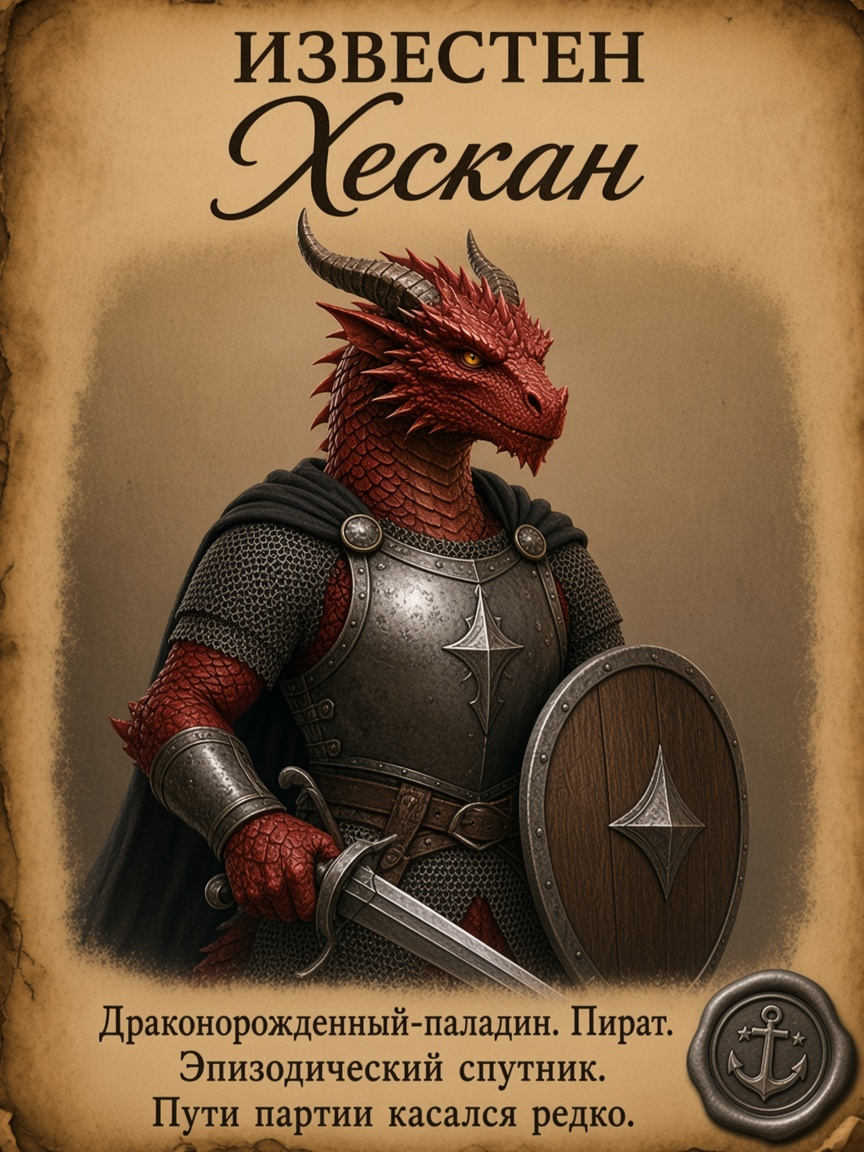
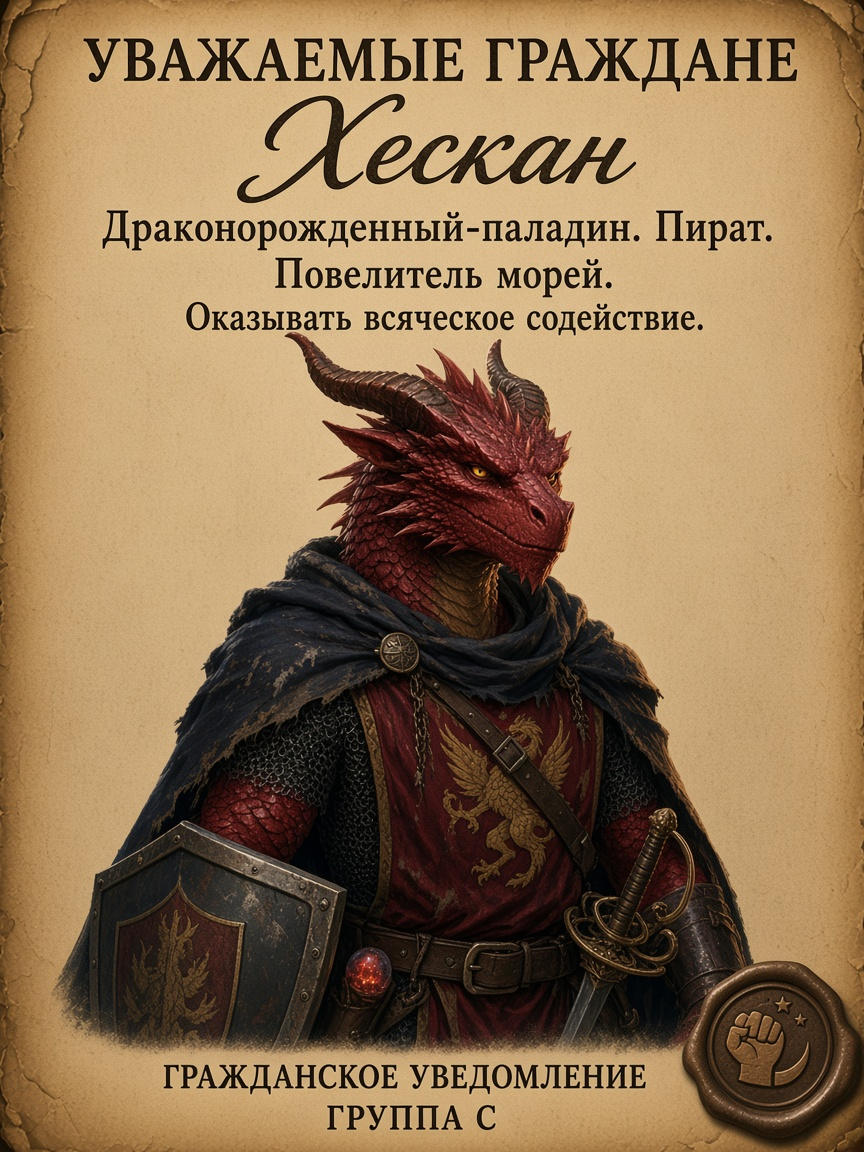
Apply master survey texts and regenerate poster groups.
Personalize Heroes footers (Silver Guard title), switch Wanted
headers to ОСОБО ОПАСЕН with rewards, unify Group C notices
under УВАЖАЕМЫЕ ГРАЖДАНЕ; Virra gets blue seal and three lines.

diff --git a/assets/prompts/parchment-posters.md b/assets/prompts/parchment-posters.md
@@ -14,15 +14,15 @@ source: gm
 
 ## Визуальный канон серии
 
-Опрос текстов: [`poster-text-survey.md`](poster-text-survey.md)
+Опрос текстов: [`poster-text-survey.md`](poster-text-survey.md) · ответы: [`poster-text-answers-2026-09-29.md`](poster-text-answers-2026-09-29.md)
 
 ### 4 шаблона (группировка — убрать разнобой)
 
 | | Группа | Заголовок | Сургуч | Файлы |
 |---|---|---|---|---|
 | **A** | Герои | `ГЕРОИ АЭЛЕНДОРА` | синий · полумесяц | `01`–`07` |
-| **B** | Розыск | `РОЗЫСК` (+ подзаголовок) | красный · печать Аэлендора | `00`, `08`, `10`, `12`, `15` |
-| **C** | Объявление | статус одним словом | бронза/серый · одно место | `09`, `13`, `14`, `16`, `17` |
+| **B** | Особо опасен | `ОСОБО ОПАСЕН` | красный · печать Аэлендора | `00`, `08`, `10`, `12` (+ `15` Зеварду без правок) |
+| **C** | Объявление | `УВАЖАЕМЫЕ ГРАЖДАНЕ` | бронза/серый · одно место | `09`, `13`, `14`, `16`, `17` |
 | **D** | Память | `ДОБРАЯ ПАМЯТЬ` | тёплый тёмный | `11` |
 
 Внутри группы: один пергамент, одни поля, одна иерархия шрифтов (**эталон — Вирра**), сургуч в одном углу.
@@ -35,27 +35,42 @@ source: gm
 
 ## Афиши
 
-### 0. Розыск — Кардиан
+### 0. Особо опасен — Кардиан
+
+Текст (опрос 2026-09-29):
+
+- ОСОБО ОПАСЕН / Кардиан
+- Некромант Мёртвого города.
+- Награда — Внесение имени в зал славы.
+- 1 000 000 золотых драконов.
 
 ![розыск Кардиан](../images/parchment-posters/00-wanted-kardian.png)
+
 
 ### 1. Герои — Грок
 
 Референс: [`../images/portraits/grok.png`](../images/portraits/grok.png)
 
-Текст:
+Текст (опрос 2026-09-29):
 
 - ГЕРОИ АЭЛЕНДОРА / Грок
 - Паладин Смотрителей.
-- За доблесть у Лунного Оврага.
-- Титул дарован Серебряным Стражем.
+- За убийство Громаша.
+- Титул дарован за битву у Серебряного стража.
 
 ![Грок](../images/parchment-posters/01-heroes-grok.png)
 
 ### 2. Герои — Вирра
 
 Референс: [`../images/portraits/virra.png`](../images/portraits/virra.png)  
-Фиолетовый мех. Мастер доводит афишу сам.
+Фиолетовый мех. Синий сургуч + 3 строки (опрос 2026-09-29).
+
+Текст:
+
+- ГЕРОИ АЭЛЕНДОРА / Вирра
+- Жрица кузни Гонда.
+- За спасение души.
+- Титул дарован за битву у Серебряного стража.
 
 ![Вирра](../images/parchment-posters/02-heroes-virra.png)
 
@@ -64,12 +79,12 @@ source: gm
 Референс: [`../images/portraits/baltan.png`](../images/portraits/baltan.png)  
 Серо-белый харенгон-бард, пурпурный плащ с зелёной подкладкой, лютня с виноградом.
 
-Текст:
+Текст (опрос 2026-09-29):
 
 - ГЕРОИ АЭЛЕНДОРА / Балтан
 - Бард Коллегии созидания.
-- За доблесть у Лунного Оврага.
-- Титул дарован Серебряным Стражем.
+- За песню победы.
+- Титул дарован за битву у Серебряного стража.
 
 ![Балтан](../images/parchment-posters/03-heroes-baltan.png)
 
@@ -78,12 +93,12 @@ source: gm
 Референс: [`../images/portraits/drannik.png`](../images/portraits/drannik.png)  
 Харенгон-друид Круга мутации: рога, зелёные глаза, посох с зелёной магией.
 
-Текст:
+Текст (опрос 2026-09-29):
 
 - ГЕРОИ АЭЛЕНДОРА / Дранник
 - Друид Круга мутации.
-- За доблесть у Лунного Оврага.
-- Титул дарован Серебряным Стражем.
+- За призыв природы.
+- Титул дарован за битву у Серебряного стража.
 
 ![Дранник](../images/parchment-posters/04-heroes-drannik.png)
 
@@ -92,12 +107,12 @@ source: gm
 Референс: [`../images/portraits/kavil.png`](../images/portraits/kavil.png)  
 Человек, друид Круга дикого огня: красный плащ, мех на плечах, пламя в ладони.
 
-Текст:
+Текст (опрос 2026-09-29):
 
-- ГЕРОИ АЭЛЕНДОРА / Кавил
+- ГЕРОИ АЭЛЕНДОРА / Кавил МакАндрик
 - Друид Круга дикого огня.
-- За доблесть у Лунного Оврага.
-- Титул дарован Серебряным Стражем.
+- За огонь в сердце.
+- Титул дарован за битву у Серебряного стража.
 
 ![Кавил](../images/parchment-posters/05-heroes-kavil.png)
 
@@ -106,12 +121,12 @@ source: gm
 Референс: [`../images/portraits/elarion.png`](../images/portraits/elarion.png)  
 Астральный эльф, чародей драконьей крови: серебряные волосы, фиолетовые глаза, синяя магия в ладони.
 
-Текст:
+Текст (опрос 2026-09-29):
 
 - ГЕРОИ АЭЛЕНДОРА / Эларион
 - Чародей драконьей крови.
-- За доблесть у Лунного Оврага.
-- Титул дарован Серебряным Стражем.
+- За успешную подготовку.
+- Титул дарован за битву у Серебряного стража.
 
 ![Эларион](../images/parchment-posters/06-heroes-elarion.png)
 
@@ -120,12 +135,12 @@ source: gm
 Референс: [`../images/portraits/plach-zvezdy.png`](../images/portraits/plach-zvezdy.png)  
 Табакси, мистический ловкач: чёрный мех, голубые светящиеся глаза, капюшон.
 
-Текст:
+Текст (опрос 2026-09-29):
 
 - ГЕРОИ АЭЛЕНДОРА / Плач звезды
 - Мистический ловкач.
-- За доблесть у Лунного Оврага.
-- Титул дарован Серебряным Стражем.
+- За повелевание тенями.
+- Титул дарован за битву у Серебряного стража.
 
 ![Плач звезды](../images/parchment-posters/07-heroes-plach-zvezdy.png)
 
@@ -134,12 +149,12 @@ source: gm
 Референс: [`../images/portraits/innokentiy-bal.png`](../images/portraits/innokentiy-bal.png)  
 **Не** герой Аэлендора. Вампир, бьётся руками.
 
-Текст:
+Текст (опрос 2026-09-29):
 
-- РОЗЫСК / ОСОБО ОПАСЕН / Иннокентий Баль
-- Также известен как Кеша.
-- Вампир. Бьётся голыми руками.
-- Не доверять. Не приближаться.
+- ОСОБО ОПАСЕН / Иннокентий Баль
+- Вампир Кеша.
+- Награда — Титул Герой Аэлендора.
+- 10 000 золотых драконов.
 
 ![розыск Кеша](../images/parchment-posters/08-wanted-innokentiy-bal.png)
 
@@ -148,12 +163,12 @@ source: gm
 Референс: [`../images/portraits/nevil.png`](../images/portraits/nevil.png)  
 **Не** герой Аэлендора. Положительная гражданская пометка.
 
-Текст:
+Текст (опрос 2026-09-29):
 
-- РЕКОМЕНДАЦИЯ / Невил
+- УВАЖАЕМЫЕ ГРАЖДАНЕ / Невил
 - Городской охотник. Убийца монстров.
 - Достоин доверия путников и стражи.
-- Временно в пути — свадебное путешествие.
+- Оказывать всяческое содействие.
 
 ![рекомендация Невил](../images/parchment-posters/09-notice-nevil.png)
 
@@ -162,12 +177,12 @@ source: gm
 Референс: [`../images/portraits/bagal.png`](../images/portraits/bagal.png)  
 Бывший ПК игрока Элариона. **Не** герой Аэлендора. Убит Кешей.
 
-Текст:
+Текст (опрос 2026-09-29):
 
-- РОЗЫСК / Багал
+- ОСОБО ОПАСЕН / Багал
 - Аасимар-колдун. Пакт исчадия.
-- Скрытый антагонист.
-- Убит Кешей.
+- Награда — Титул Герой Аэлендора.
+- 10 000 золотых драконов.
 
 ![розыск Багал](../images/parchment-posters/10-wanted-bagal.png)
 
@@ -190,12 +205,12 @@ source: gm
 Референс: [`../images/portraits/tiara.png`](../images/portraits/tiara.png)  
 Ипостась Балтана. **Переметнулась на сторону демонов.** Не герой Аэлендора.
 
-Текст:
+Текст (опрос 2026-09-29):
 
-- РОЗЫСК / ПРЕДАТЕЛЬНИЦА / Тиара
+- ОСОБО ОПАСЕН / Тиара
 - Колдун. Пакт исчадия.
-- Переметнулась на сторону демонов.
-- Ипостась Балтана. Пала у Лунного Оврага.
+- Награда — Доступ в Средний город Лунного моста.
+- 1 000 золотых драконов.
 
 ![розыск Тиара](../images/parchment-posters/12-wanted-tiara.png)
 
@@ -204,12 +219,12 @@ source: gm
 Референс: [`../images/portraits/radonaar.png`](../images/portraits/radonaar.png)  
 Выгнан из партии. Служит Империи Драконьего Хребта. Не герой Аэлендора.
 
-Текст:
+Текст (опрос 2026-09-29):
 
-- СЛУЖИТ ХРЕБТУ / Радонаар
+- УВАЖАЕМЫЕ ГРАЖДАНЕ / Радонаар
 - Драконорожденный-жрец. Домен войны.
 - Авангард Империи Драконьего Хребта.
-- Вне партии. Пути ещё пересекутся.
+- Оказывать всяческое содействие.
 
 ![Радонаар](../images/parchment-posters/13-notice-radonaar.png)
 
@@ -218,12 +233,12 @@ source: gm
 Референс: [`../images/portraits/uorag.png`](../images/portraits/uorag.png)  
 Эпизодический. Нейтральное упоминание. Не герой Аэлендора.
 
-Текст:
+Текст (опрос 2026-09-29):
 
-- ИЗВЕСТЕН / Уораг
+- УВАЖАЕМЫЕ ГРАЖДАНЕ / Уораг
 - Дроу-монах. Эпизодический спутник.
 - Ученик монастыря Кулака Луны.
-- Пути партии касался редко.
+- Оказывать всяческое содействие.
 
 ![Уораг](../images/parchment-posters/14-notice-uorag.png)
 
@@ -246,12 +261,12 @@ source: gm
 Референс: [`../images/portraits/heskan.png`](../images/portraits/heskan.png)  
 Проходной. Нейтральное упоминание. Не герой Аэлендора.
 
-Текст:
+Текст (опрос 2026-09-29):
 
-- ИЗВЕСТЕН / Хескан
+- УВАЖАЕМЫЕ ГРАЖДАНЕ / Хескан
 - Драконорожденный-паладин. Пират.
-- Эпизодический спутник.
-- Пути партии касался редко.
+- Повелитель морей.
+- Оказывать всяческое содействие.
 
 ![Хескан](../images/parchment-posters/16-notice-heskan.png)
 
@@ -260,12 +275,12 @@ source: gm
 Референс: [`../images/portraits/fioletovyy-zhab.png`](../images/portraits/fioletovyy-zhab.png)  
 Основатель партии. Сейчас не играет. Очень положительная подача (выше нейтрального «известен» / рекомендации Невила). Не титул «Герои Аэлендора» — отдельная честь группы.
 
-Текст:
+Текст (опрос 2026-09-29):
 
-- ЧЕСТЬ «БРОДЯГИ» / Фиолетовый Жаб
+- УВАЖАЕМЫЕ ГРАЖДАНЕ / Фиолетовый Жаб
 - Грунг-плут. Дуэлянт.
-- Друзьям — всё. Основатель партии.
-- Имя в чести. Ждём возвращения.
+- ЧЕСТЬ «БРОДЯГИ».
+- Оказывать всяческое содействие.
 
 ![Фиолетовый Жаб](../images/parchment-posters/17-honor-fioletovyy-zhab.png)
 

diff --git a/assets/prompts/poster-text-answers-2026-09-29.md b/assets/prompts/poster-text-answers-2026-09-29.md
@@ -1,0 +1,60 @@
+---
+title: Ответы мастера — тексты пергаментных афиш
+status: canon
+date: 2026-09-29
+tags: [survey, parchment]
+---
+
+# Ответы мастера (2026-09-29)
+
+Источник: заполненная форма `poster-text-survey.html`.
+
+## Общие
+
+- Строки 2–3 героев: **персонализировать**
+- Вирра: синий полумесяц + 3 строки (как остальные)
+- Имя Кавила на афише: **Кавил МакАндрик**
+- Группа C: один визуальный шаблон, разные статус-слова / тексты
+
+## A. Герои Аэлендора
+
+| Кто | Имя | 1 | 2 | 3 |
+|---|---|---|---|---|
+| Грок | Грок | Паладин Смотрителей. | За убийство Громаша. | Титул дарован за битву у Серебряного стража. |
+| Вирра | Вирра | Жрица кузни Гонда. | За спасение души. | Титул дарован за битву у Серебряного стража. |
+| Балтан | Балтан | Бард Коллегии созидания. | За песню победы. | Титул дарован за битву у Серебряного стража. |
+| Дранник | Дранник | Друид Круга мутации. | За призыв природы. | Титул дарован за битву у Серебряного стража. |
+| Кавил | Кавил МакАндрик | Друид Круга дикого огня. | За огонь в сердце. | Титул дарован за битву у Серебряного стража. |
+| Эларион | Эларион | Чародей драконьей крови. | За успешную подготовку. | Титул дарован за битву у Серебряного стража. |
+| Плач звезды | Плач звезды | Мистический ловкач. | За повелевание тенями. | Титул дарован за битву у Серебряного стража. |
+
+## B. Розыск / особо опасен
+
+| Кто | Заголовок | 1 | 2 | 3 |
+|---|---|---|---|---|
+| Кардиан | ОСОБО ОПАСЕН | Некромант Мёртвого города. | Награда — Внесение имени в зал славы. | 1 000 000 золотых драконов. |
+| Иннокентий Баль | ОСОБО ОПАСЕН | Вампир Кеша. | Награда — Титул Герой Аэлендора. | 10 000 золотых драконов. |
+| Багал | ОСОБО ОПАСЕН | Аасимар-колдун. Пакт исчадия. | Награда — Титул Герой Аэлендора. | 10 000 золотых драконов. |
+| Тиара | ОСОБО ОПАСЕН | Колдун. Пакт исчадия. | Награда — Доступ в Средний город Лунного моста. | 1 000 золотых драконов. |
+| Зеварду | *(не трогали)* | — | — | — |
+
+> В форме у Тиары было «Доступ с Средний город» — канон: **«Доступ в Средний город Лунного моста»**.
+
+## C. Объявление (один шаблон)
+
+Заголовок у большинства: **Уважаемые граждане**  
+(У Уорага в форме имя/заголовок перепутаны — канон: заголовок «Уважаемые граждане», имя «Уораг».)
+
+| Кто | Заголовок | 1 | 2 | 3 |
+|---|---|---|---|---|
+| Невил | Уважаемые граждане | Городской охотник. Убийца монстров. | Достоин доверия путников и стражи. | Оказывать всяческое содействие. |
+| Радонаар | Уважаемые граждане | Драконорожденный-жрец. Домен войны. | Авангард Империи Драконьего Хребта. | Оказывать всяческое содействие. |
+| Уораг | Уважаемые граждане | Дроу-монах. Эпизодический спутник. | Ученик монастыря Кулака Луны. | Оказывать всяческое содействие. |
+| Хескан | Уважаемые граждане | Драконорожденный-паладин. Пират. | Повелитель морей. | Оказывать всяческое содействие. |
+| Фиолетовый Жаб | Уважаемые граждане | Грунг-плут. Дуэлянт. | ЧЕСТЬ «БРОДЯГИ». | Оказывать всяческое содействие. |
+
+## D. Память
+
+| Кто | Заголовок | 1 | 2 | 3 |
+|---|---|---|---|---|
+| Мёртвый Лист | ДОБРАЯ ПАМЯТЬ | Табакси-плут. Убийца по ремеслу — друг по сердцу. | Воспитанник Приюта «Колыбель Рассвета». | Павший в пути. Помним. |

diff --git a/assets/images/parchment-posters/README.md b/assets/images/parchment-posters/README.md
@@ -10,7 +10,7 @@ tags: [visual, merch, parchment]
 Промпты и правила серии: [`../../prompts/parchment-posters.md`](../../prompts/parchment-posters.md)  
 Портреты-референсы из чарников: [`../portraits/`](../portraits/)
 
-Опрос текстов: [`../../prompts/poster-text-survey.md`](../../prompts/poster-text-survey.md)
+Опрос: [`../../prompts/poster-text-survey.md`](../../prompts/poster-text-survey.md) · ответы [`../../prompts/poster-text-answers-2026-09-29.md`](../../prompts/poster-text-answers-2026-09-29.md)
 
 ### A. Герои Аэлендора — синий сургуч
 
@@ -24,11 +24,11 @@ tags: [visual, merch, parchment]
 | `06-heroes-elarion.png` | Эларион |
 | `07-heroes-plach-zvezdy.png` | Плач звезды |
 
-### B. Розыск — красный сургуч
+### B. Особо опасен — красный сургуч
 
 | Файл | Кто |
 |---|---|
-| `00-wanted-kardian.png` | Кардиан |
+| `00-wanted-kardian.png` | Кардиан · особо опасен |
 | `08-wanted-innokentiy-bal.png` | Кеша · особо опасен |
 | `10-wanted-bagal.png` | Багал |
 | `12-wanted-tiara.png` | Тиара · предательница |
@@ -38,11 +38,11 @@ tags: [visual, merch, parchment]
 
 | Файл | Кто | Статус-слово |
 |---|---|---|
-| `09-notice-nevil.png` | Невил | РЕКОМЕНДАЦИЯ |
-| `13-notice-radonaar.png` | Радонаар | СЛУЖИТ ХРЕБТУ |
-| `14-notice-uorag.png` | Уораг | ИЗВЕСТЕН |
-| `16-notice-heskan.png` | Хескан | ИЗВЕСТЕН |
-| `17-honor-fioletovyy-zhab.png` | Фиолетовый Жаб | ЧЕСТЬ «БРОДЯГИ» |
+| `09-notice-nevil.png` | Невил | УВАЖАЕМЫЕ ГРАЖДАНЕ |
+| `13-notice-radonaar.png` | Радонаар | УВАЖАЕМЫЕ ГРАЖДАНЕ |
+| `14-notice-uorag.png` | Уораг | УВАЖАЕМЫЕ ГРАЖДАНЕ |
+| `16-notice-heskan.png` | Хескан | УВАЖАЕМЫЕ ГРАЖДАНЕ |
+| `17-honor-fioletovyy-zhab.png` | Фиолетовый Жаб | УВАЖАЕМЫЕ ГРАЖДАНЕ · честь «Бродяги» в тексте |
 
 ### D. Память
 

diff --git a/SOURCES.md b/SOURCES.md
@@ -56,6 +56,7 @@ tags: [meta]
 | 2026-09-28 | `assets/character-sheets/{uorag,zevardu}.*` + portraits + posters | Уораг (нейтрально) и Зеварду (помощник Кардиана; зеркало/сова) |
 | 2026-09-28 | `assets/character-sheets/heskan.*` + portrait + notice | Хескан: проходной; нейтральное упоминание |
 | 2026-09-28 | `assets/character-sheets/fioletovyy-zhab.*` + canon portrait + honor poster | Фиолетовый Жаб: лист; LSS-арт архив; честь «Бродяги» |
+| 2026-09-29 | `assets/prompts/poster-text-answers-2026-09-29.md` + posters regen | Опрос текстов афиш; перегенерация A/B/C |
 | 2026-09-04 | `assets/maps/world-map-echo-dawn.jpg` | Карта мира от мастера → `world/locations/world-map.md` |
 | 2026-09-04 | `assets/maps/aelendor-map.jpg` | Карта Аэлендора → `world/locations/aelendor-map.md` |
 | 2026-09-04 | `assets/maps/lunnye-piki-map.jpg` | Карта провинции Лунные Пики → `world/locations/lunnye-piki-map.md` |
